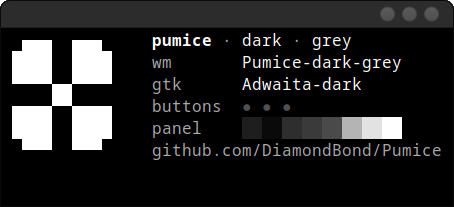
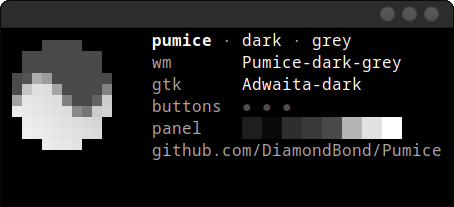
Replace the clover with a ball with a wave flowing through it
The menu icon is now a circle split by a wave: faint above, a half-tone
band, then solid below with a gradient fading toward the top right.
pumice-info.sh draws the same ball in truecolor half-blocks from the
panel palette, and the README screenshot shows it.

Changed region(s): [[0.0, 0.1739, 0.2467, 0.7246]]

diff --git a/build.py b/build.py
@@ -212,17 +212,21 @@ def panel_buttons():
             s.write_to_png(os.path.join(out, f"{wname}_{wstate}.png"))
 
 
-LEAF = '<path id="leaf" d="M8 6.5 L4.6 3.1 L6.9 0.8 L8 1.9 L9.1 0.8 L11.4 3.1 Z"/>'  # notched diamond: an angular heart, all edges at 45 degrees
 MENU_ICON = """<svg xmlns="http://www.w3.org/2000/svg" xmlns:xlink="http://www.w3.org/1999/xlink" viewBox="0 0 16 16" width="16" height="16">
-  <!-- Pumice menu button: four angular heart leaves, turned 45 degrees so they
-       sit on the diagonals, with a small diamond where they join -->
-  <defs>""" + LEAF + """</defs>
-  <g fill="{0}" transform="rotate(45 8 8) translate(8 8) scale(0.92) translate(-8 -8)">
-    <use xlink:href="#leaf"/>
-    <use xlink:href="#leaf" transform="rotate(90 8 8)"/>
-    <use xlink:href="#leaf" transform="rotate(180 8 8)"/>
-    <use xlink:href="#leaf" transform="rotate(270 8 8)"/>
-    <rect x="7.2" y="7.2" width="1.6" height="1.6" transform="rotate(45 8 8)"/>
+  <!-- Pumice menu button: a ball with a wave flowing through it; faint above,
+       a half-tone band, then solid below, fading toward the top right -->
+  <defs>
+    <clipPath id="ball"><circle cx="8" cy="8" r="7"/></clipPath>
+    <linearGradient id="flow" x1="0" y1="1" x2="1" y2="0">
+      <stop offset="0" stop-color="{0}"/>
+      <stop offset="1" stop-color="{0}" stop-opacity=".45"/>
+    </linearGradient>
+    <path id="wave" d="M0 10 C3 6 5.5 6 8 8.5 S13 11 16 7 V19 H0 Z"/>
+  </defs>
+  <g clip-path="url(#ball)" fill="url(#flow)">
+    <rect width="16" height="16" fill-opacity=".2"/>
+    <use xlink:href="#wave" transform="translate(0 -2.6)" fill-opacity=".45"/>
+    <use xlink:href="#wave"/>
   </g>
 </svg>
 """

diff --git a/README.md b/README.md
@@ -21,7 +21,7 @@ Adwaita-dark, so there is no GTK theme to keep in sync.
 The panel styling, loaded on top of Adwaita, gives you:
 
 - a flat bar with soft rounded hover states
-- a four-leaf clover as an icon-only applications menu
+- a ball with a wave through it as an icon-only applications menu
 - the workspace switcher drawn as small dots
 - dimmed labels for unfocused tasks
 
@@ -80,7 +80,7 @@ window manager theme* and *Control maximized windows*.
 
 ## Showcase
 
-`./pumice-info.sh` prints a small card for screenshots: a clover, the current
+`./pumice-info.sh` prints a small card for screenshots: the menu ball, the current
 theme and mode, the window buttons in their real colours, and the panel palette.
 It needs a truecolor terminal.
 
